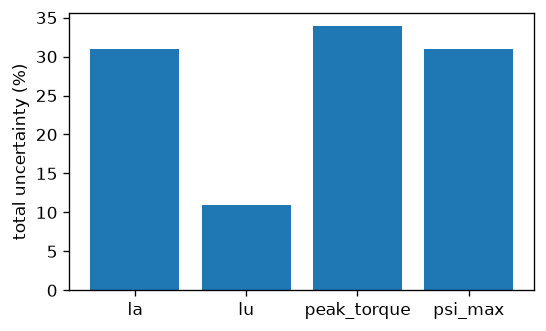
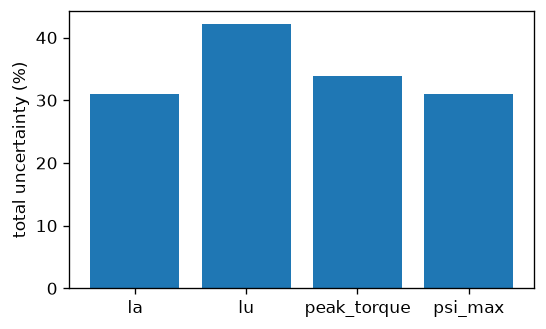
validation: 8/6 budget with the measured_lu row; results, roadmap, CLAUDE.md
Lu total 42.11 %; every other value unchanged. Report PASS.

diff --git a/src/srmcore/maps/validation.py b/src/srmcore/maps/validation.py
@@ -199,8 +199,10 @@ def em_validate(design: Design, result: MapResult, *, solver: str = "ngsolve",
                         "19.2 % of measured in peak torque (Krishnan 6/4), 17.2 % in La and ψ_max (TEAM 24)")
     digitisation = max(m.digitisation_error or 0.0 for m in loaded.values())
     digitisation_row = BudgetRow("digitisation", {k: digitisation for k in KEYS}, "digitised B-H curve")
-    lu_row = BudgetRow("measured_lu", {k: MEASURED_LU_GAP / (1.0 + MEASURED_LU_GAP) if k == "lu" else 0.0 for k in KEYS},
-                       "measured gap, not a modelled effect: model high by 45.2 % of measured in Lu (Krishnan 6/4, 1 A)")
+    lu_gap = MEASURED_LU_GAP / (1.0 + MEASURED_LU_GAP)
+    lu_row = BudgetRow("measured_lu", {k: lu_gap if k == "lu" else 0.0 for k in KEYS},
+                       "measured gap, not a modelled effect: model high by 45.2 % of measured in Lu "
+                       "(Krishnan 6/4, 1 A)")
     rows = (mesh_row, material_row, end_row, digitisation_row, lu_row)
     budget = UncertaintyBudget(values_2d, values, rows, {k: sum(r.rel[k] for r in rows) for k in KEYS})
 

diff --git a/CLAUDE.md b/CLAUDE.md
@@ -134,7 +134,7 @@ On Linux, the gmsh wheel needs `libglu1-mesa` (CI also installs `libxcursor1 lib
 6. **`maps/fem_checks.py`**: held-out interpolation and band-radius independence (`full`/`reference` only). **`maps/fidelity.py`**: `fidelity_check` (screening vs full).
 7. The map and HDF5 dataset also hold energy, L_inc (excited column), per-pole force vectors (`post/forces.py`) and `b_peak` (area-weighted 99.9th percentile of iron |B|, `point.B_PEAK_QUANTILE`; the `iron_b_peak` check compares it with the last stacked B-H point). Every phase can be excited; its angle grid is the phase-A grid shifted by that phase's aligned angle. The pool runs one job per map point, largest current first. `pool.default_workers` is shared by the API and the checks.
 8. `tests/maps/test_goldens.py` (slow) compares the 8/6 screening key numbers and check statuses with `goldens_8_6.json`; the regeneration command is in its docstring.
-9. **`maps/validation.py`** `em_validate(design, result, solver="ngsolve", workers=None)` returns `EmValidation(label, checks, budget, engine_version, material_grades)`. The label ("2D-verified") needs every check to pass: `engine_version` (in `VALIDATED_VERSIONS`, `("0.4.0", "0.7.0")`; the validation report gates adding a version), `preset` (the map's preset equals the design's, and is `full` or `reference`), `map_identity` (the map's design hash, `maps.identity.design_hash`, equals the design's), `no_filled_points`, `map_matches_design` (the peak-torque key point solved on the design's mesh equals the map's value within 0.1 %), `point_convergence_psi` / `_torque` (4 key points on `full` vs `reference`: ψ 0.5 %, torque 1 % of peak), the `fem_checks` (including `held_out_converged`, which warns when a held-out solve was skipped), `material_grade` and `budget_finite`. `UncertaintyBudget` has worst-case rows (mesh, material = Js ±2 % plus grade allowance A 0 / B 3 / C 10 %, end effect = image factors 1 and 2 plus `MEASURED_GAP` (the measured TEAM 24 and Krishnan 6/4 residuals as fractions of the measured value: La and ψ_max 17.2 %, peak torque 19.2 %; the row adds g / (1 - g), the fraction of the model value), digitisation via `SoftMagneticMaterial.digitisation_error`) relative to the end-winding-corrected key numbers beside the 2D values (the mesh and material rows are rescaled by 2D value / corrected value). When the B-H data already exceed Js − 2 % (M19, steel_1010) only +2 % is used and the note says so. It runs up to 16 sequential solves and stores nothing.
+9. **`maps/validation.py`** `em_validate(design, result, solver="ngsolve", workers=None)` returns `EmValidation(label, checks, budget, engine_version, material_grades)`. The label ("2D-verified") needs every check to pass: `engine_version` (in `VALIDATED_VERSIONS`, `("0.4.0", "0.7.0")`; the validation report gates adding a version), `preset` (the map's preset equals the design's, and is `full` or `reference`), `map_identity` (the map's design hash, `maps.identity.design_hash`, equals the design's), `no_filled_points`, `map_matches_design` (the peak-torque key point solved on the design's mesh equals the map's value within 0.1 %), `point_convergence_psi` / `_torque` (4 key points on `full` vs `reference`: ψ 0.5 %, torque 1 % of peak), the `fem_checks` (including `held_out_converged`, which warns when a held-out solve was skipped), `material_grade` and `budget_finite`. `UncertaintyBudget` has worst-case rows (mesh, material = Js ±2 % plus grade allowance A 0 / B 3 / C 10 %, end effect = image factors 1 and 2 plus `MEASURED_GAP` (the measured TEAM 24 and Krishnan 6/4 residuals as fractions of the measured value: La and ψ_max 17.2 %, peak torque 19.2 %; the row adds g / (1 - g), the fraction of the model value), digitisation via `SoftMagneticMaterial.digitisation_error`, `measured_lu` = `MEASURED_LU_GAP`, the Krishnan Lu residual, on Lu only, as g / (1 + g) because the model is high) relative to the end-winding-corrected key numbers beside the 2D values (the mesh and material rows are rescaled by 2D value / corrected value). When the B-H data already exceed Js − 2 % (M19, steel_1010) only +2 % is used and the note says so. It runs up to 16 sequential solves and stores nothing.
 
 Analytic test problems (the current-sheet toroid and MMS on the unit square) live in `tests/fem_fixtures.py`. `tests/team24_fixture.py` builds the TEAM Problem 24 rig as a `Magnetostatic2D`; the comparison is in `docs/m5b-team24-results.md` and the slow test in `tests/validation/test_team24.py`. `tests/femm_machines.py` defines the FEMM comparison machines and points; fixtures are in `tests/validation/fixtures/`, the slow test is `tests/validation/test_femm.py`. `tests/emdlab_machine.py` defines the EMDLAB paper's 8/6 (material `M530_50A`, a non-magnetic shaft, a 1392-division band so the 30 reference angles are band nodes); the slow test `tests/validation/test_emdlab.py` compares it with ANSYS Maxwell and EMDLAB at 3.6 A (`tests/validation/fixtures/emdlab_8_6/`, results `docs/emdlab-results.md`: torque within 2.99 % of peak against Maxwell and 3.78 % against EMDLAB). `tests/solvers/test_cross_solver.py` compares the two solvers at 1e-4. Test file basenames must be unique, because `tests/` has no `__init__.py`.
 

diff --git a/docs/r4-end-effect-results.md b/docs/r4-end-effect-results.md
@@ -135,8 +135,9 @@ Fixed values, from the larger of the TEAM 24 and Krishnan 6/4 residuals (spec de
 - The values are not a constraint anywhere. No search, margin or ranking reads the budget.
 - The map values are not scaled by the gap: measurements are a check, not a calibration.
 - Evaluations stored before this change keep the old row in the web store and show a peak-torque row of 0 %. Validating again updates them. The note text tells the two apart. There is no migration.
-- The R5 spec (section 7, row "EM torque") takes the current for a rated torque at torque x (1 + the EM peak-torque row, end-effect row included). R5's rated torque therefore carries 23.76 % in the end-effect row and 33.88 % in the 8/6 peak-torque total. No change is proposed here.
-- Not in the budget: the largest measured residual is Krishnan Lu, +27.3 % to +45.2 % after the end-winding term (`docs/validation/krishnan_6_4.json`), far outside the 10.98 % Lu total on the 8/6; `docs/m5d-krishnan-results.md` gives the cause as "the 2D model with the coil packed against the yoke already over-predicts Lu". Decision 7 leaves Lu out, so it is not in the budget. It is stated here and is a tracker item for an owner ruling.
+- R5 does not use the measured gap (owner, 2026-11-06). Its EM torque row (R5 spec section 7) takes the peak-torque total less the gap, because the model is low on torque in every measured comparison. On the 8/6 the factor is 1.10, not 1.34.
+- Lu has its own row, `measured_lu` (owner, 2026-11-06): the Krishnan Lu residual after the end-winding term is +27.3 % to +45.2 % (`docs/validation/krishnan_6_4.json`). The row uses +45.2 % at 1 A, the point that matches the Lu key number at 5 % of I_max. The model is high, so the row is g / (1 + g) = 31.13 % of the model value. `docs/m5d-krishnan-results.md` calls it a 2D-model and geometry issue, not an end effect, so it is not in `end_effect`. It comes from one machine, and coil placement alone moves Lu from 37 to 45 mH, so the row is conservative.
+- 8/6 totals with this row (code eff5be8, wrapped in the result commit; report PASS): La 30.98 %, Lu 42.11 %, peak torque 33.88 %, ψ_max 30.99 %.
 
 ## G3 (R4b)
 

diff --git a/docs/superpowers/specs/2026-10-12-roadmap-r1-r10-design.md b/docs/superpowers/specs/2026-10-12-roadmap-r1-r10-design.md
@@ -64,7 +64,7 @@ Side step before R3 (2026-10-18): UI polish — SRM logo and favicon, motor-shap
 ### R4 — End effects
 - [x] 3D magnetostatic model (NGSolve) built and checked: cost spike G0, slab against 2D G2, TEAM 24 against measurement G1. G1 failed, so the spot checks across stack-length/diameter ratios were not run
 - [ ] Dropped, G1 failed: an end-effect correction (as a function of geometry) calibrated against the 3D runs only; the measured TEAM 24 and Krishnan 6/4 data are a check, never a calibration (owner, 2026-11-03; spec `2026-11-03-r4-end-effects-design.md`)
-- [x] The measured gap enters the uncertainty budget (`end_effect` row, `MEASURED_GAP`, 2026-11-05). The largest measured residual, Krishnan Lu (+27.3 % to +45.2 %), is not in the budget: decision 7 leaves Lu out, and it is a tracker item for an owner ruling
+- [x] The measured gap enters the uncertainty budget (`end_effect` row, `MEASURED_GAP`, 2026-11-05). The Krishnan Lu residual (+27.3 % to +45.2 %) has its own row, `measured_lu` (owner, 2026-11-06)
 - [ ] Dropped, G1 failed: the correction in the key numbers and the ranking-bias measure
 - [ ] Dropped, G1 failed: the 3D sweep covers the whole air-gap range the R7 optimiser may choose, down to the smallest allowed gap (owner, 2026-11-04: small gaps are worth their cost)
 - Done when: the measured comparisons fall inside the stated uncertainty, or the remaining gap is stated in the budget.

diff --git a/docs/validation-report.md b/docs/validation-report.md
@@ -105,7 +105,7 @@ srmcore 0.7.0.
 
 ## EM validation (8/6 full)
 
-Engine 0.7.0, label: 2D-verified, grades {'stator': 'C', 'rotor': 'C'}, map 708 s, validation 285 s.
+Engine 0.7.0, label: 2D-verified, grades {'stator': 'C', 'rotor': 'C'}, map 700 s, validation 287 s.
 
 | Check | Status | Value | Limit | Detail |
 |---|---|---|---|---|
@@ -133,7 +133,8 @@ Uncertainty budget (worst case, % of the corrected value):
 | material | 9.96 | 9.65 | 10.00 | 9.92 |
 | end_effect | 20.90 | 1.16 | 23.76 | 21.04 |
 | digitisation | 0.00 | 0.00 | 0.00 | 0.00 |
-| **total** | **30.98** | **10.98** | **33.88** | **30.99** |
+| measured_lu | 0.00 | 31.13 | 0.00 | 0.00 |
+| **total** | **30.98** | **42.11** | **33.88** | **30.99** |
 
 ![budget](validation/budget.png)
 
